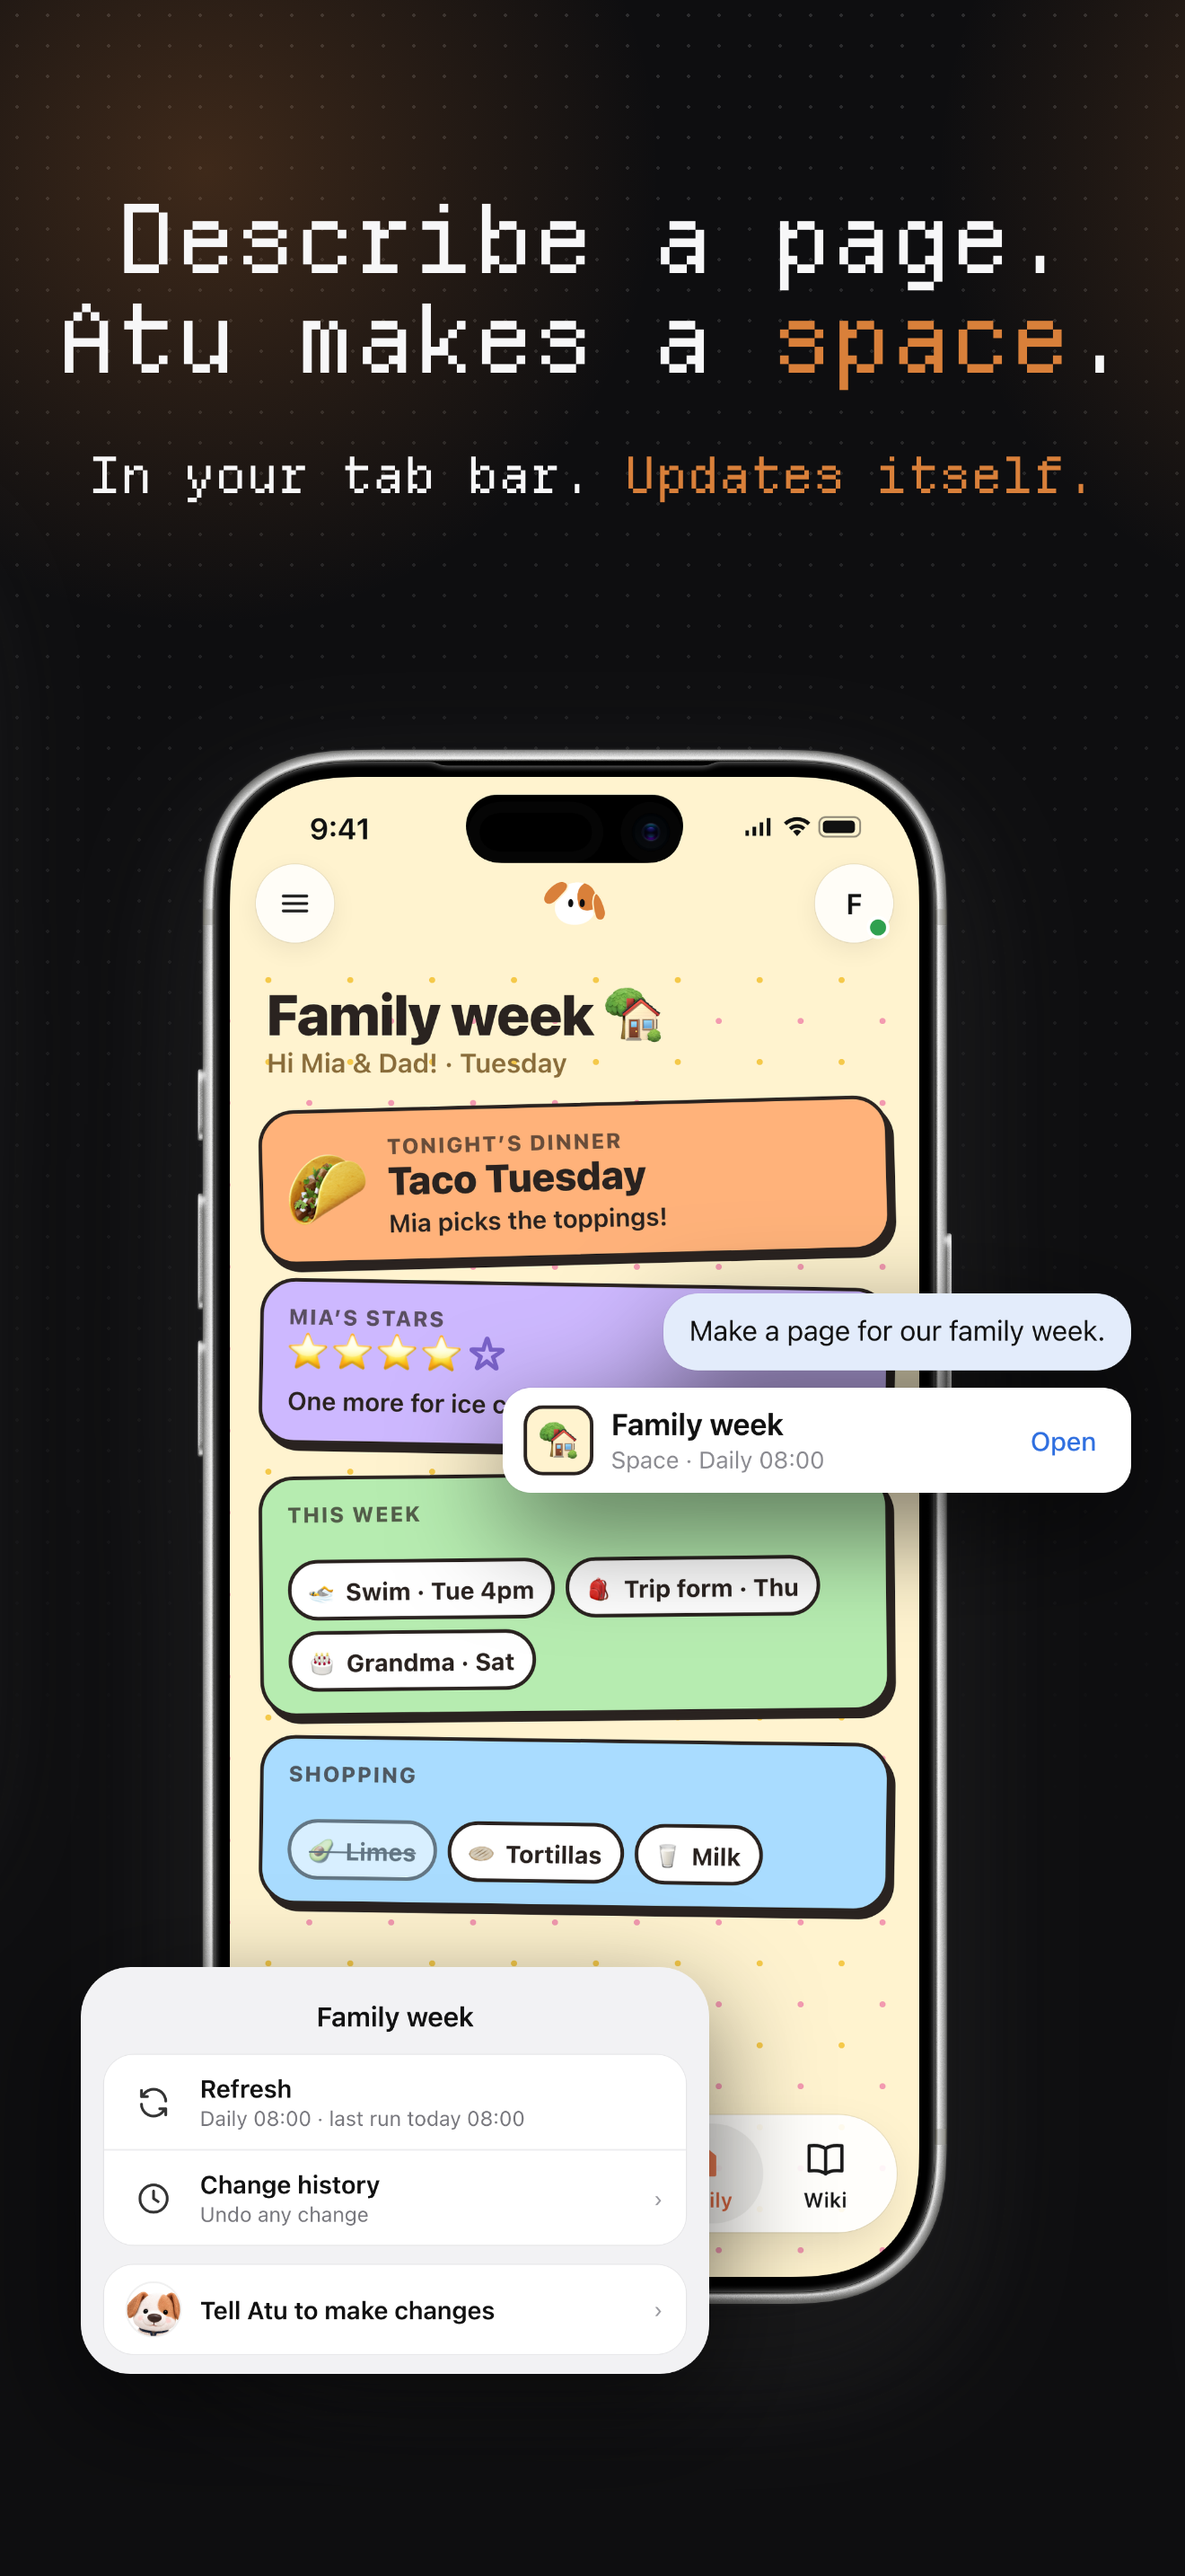
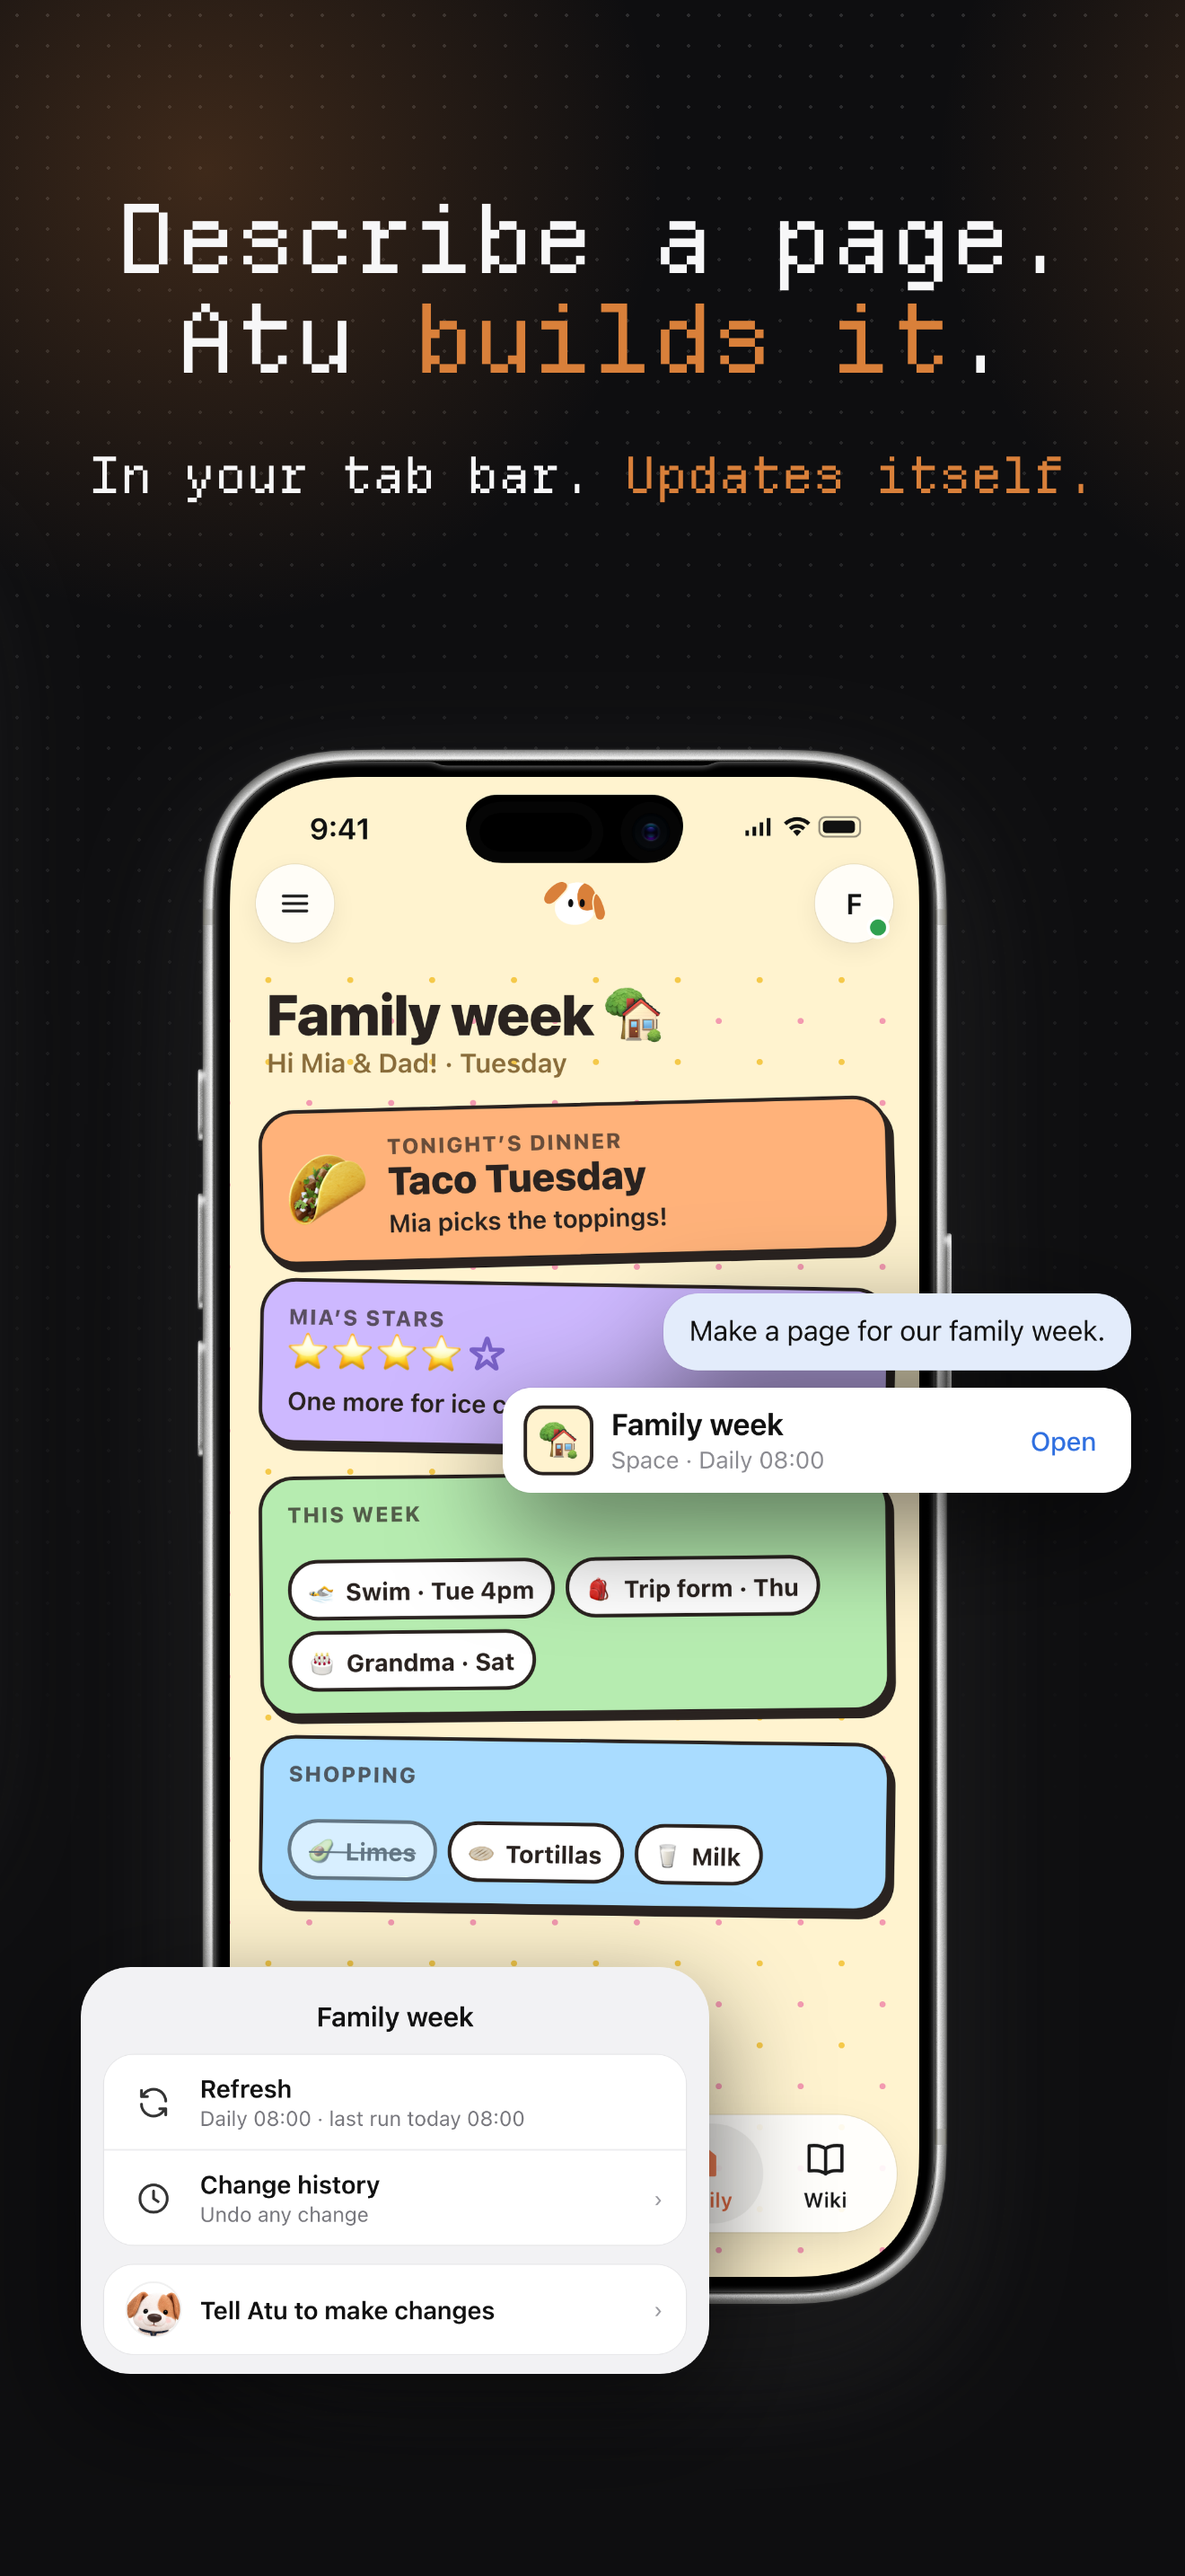
brand: App Store Space page headline: Describe a page. Atu builds it.

Changed region(s): [[0.0311, 0.1241, 0.9008, 0.1552]]

diff --git a/brand/hey-atu-brand-kit/09-generator/appstore-v2/compose_c.py b/brand/hey-atu-brand-kit/09-generator/appstore-v2/compose_c.py
@@ -203,7 +203,7 @@ P6 = ''.join([
 # ---- page 7: a space: Atu makes a page from one message and keeps it up to date ---------------
 k = 6 * W
 P7 = ''.join([
-    head(6, ['Describe a page.', 'Atu makes a *space*.']),          # heyatu.com 19:00 Spaces
+    head(6, ['Describe a page.', 'Atu *builds it*.']),               # app (NativeSpaceNew) and heyatu.com: "page", not "app" (guideline 4.7)
     text(k, 500, 56, ['In your tab bar. *Updates itself.*'], align='center', width=W),
     phone('p7-space', k + 640, 821),
     img(f'{S}/scr-spadd.png', k + 560, 1440, 700, z=5),              # the message and the space card in the chat

diff --git a/brand/hey-atu-brand-kit/09-generator/appstore-v2/compose_ipad.py b/brand/hey-atu-brand-kit/09-generator/appstore-v2/compose_ipad.py
@@ -114,7 +114,7 @@ P6 = ''.join([
 # 7 space: the run log, the message and its space card, the space menu (2026-11-09)
 k = 6 * W
 P7 = ''.join([
-    head(6, ['Describe a page.', 'Atu makes a *space*.']),          # heyatu.com 19:00 Spaces
+    head(6, ['Describe a page.', 'Atu *builds it*.']),               # app (NativeSpaceNew) and heyatu.com: "page", not "app" (guideline 4.7)
     text(k, 560, 84, ['In your tab bar. *Updates itself.*'], align='center', width=W),
     ipad(6, 'space', 860),
     img(f'{S}/scr-spadd.png', k + 1080, 1740, 900, z=5),
